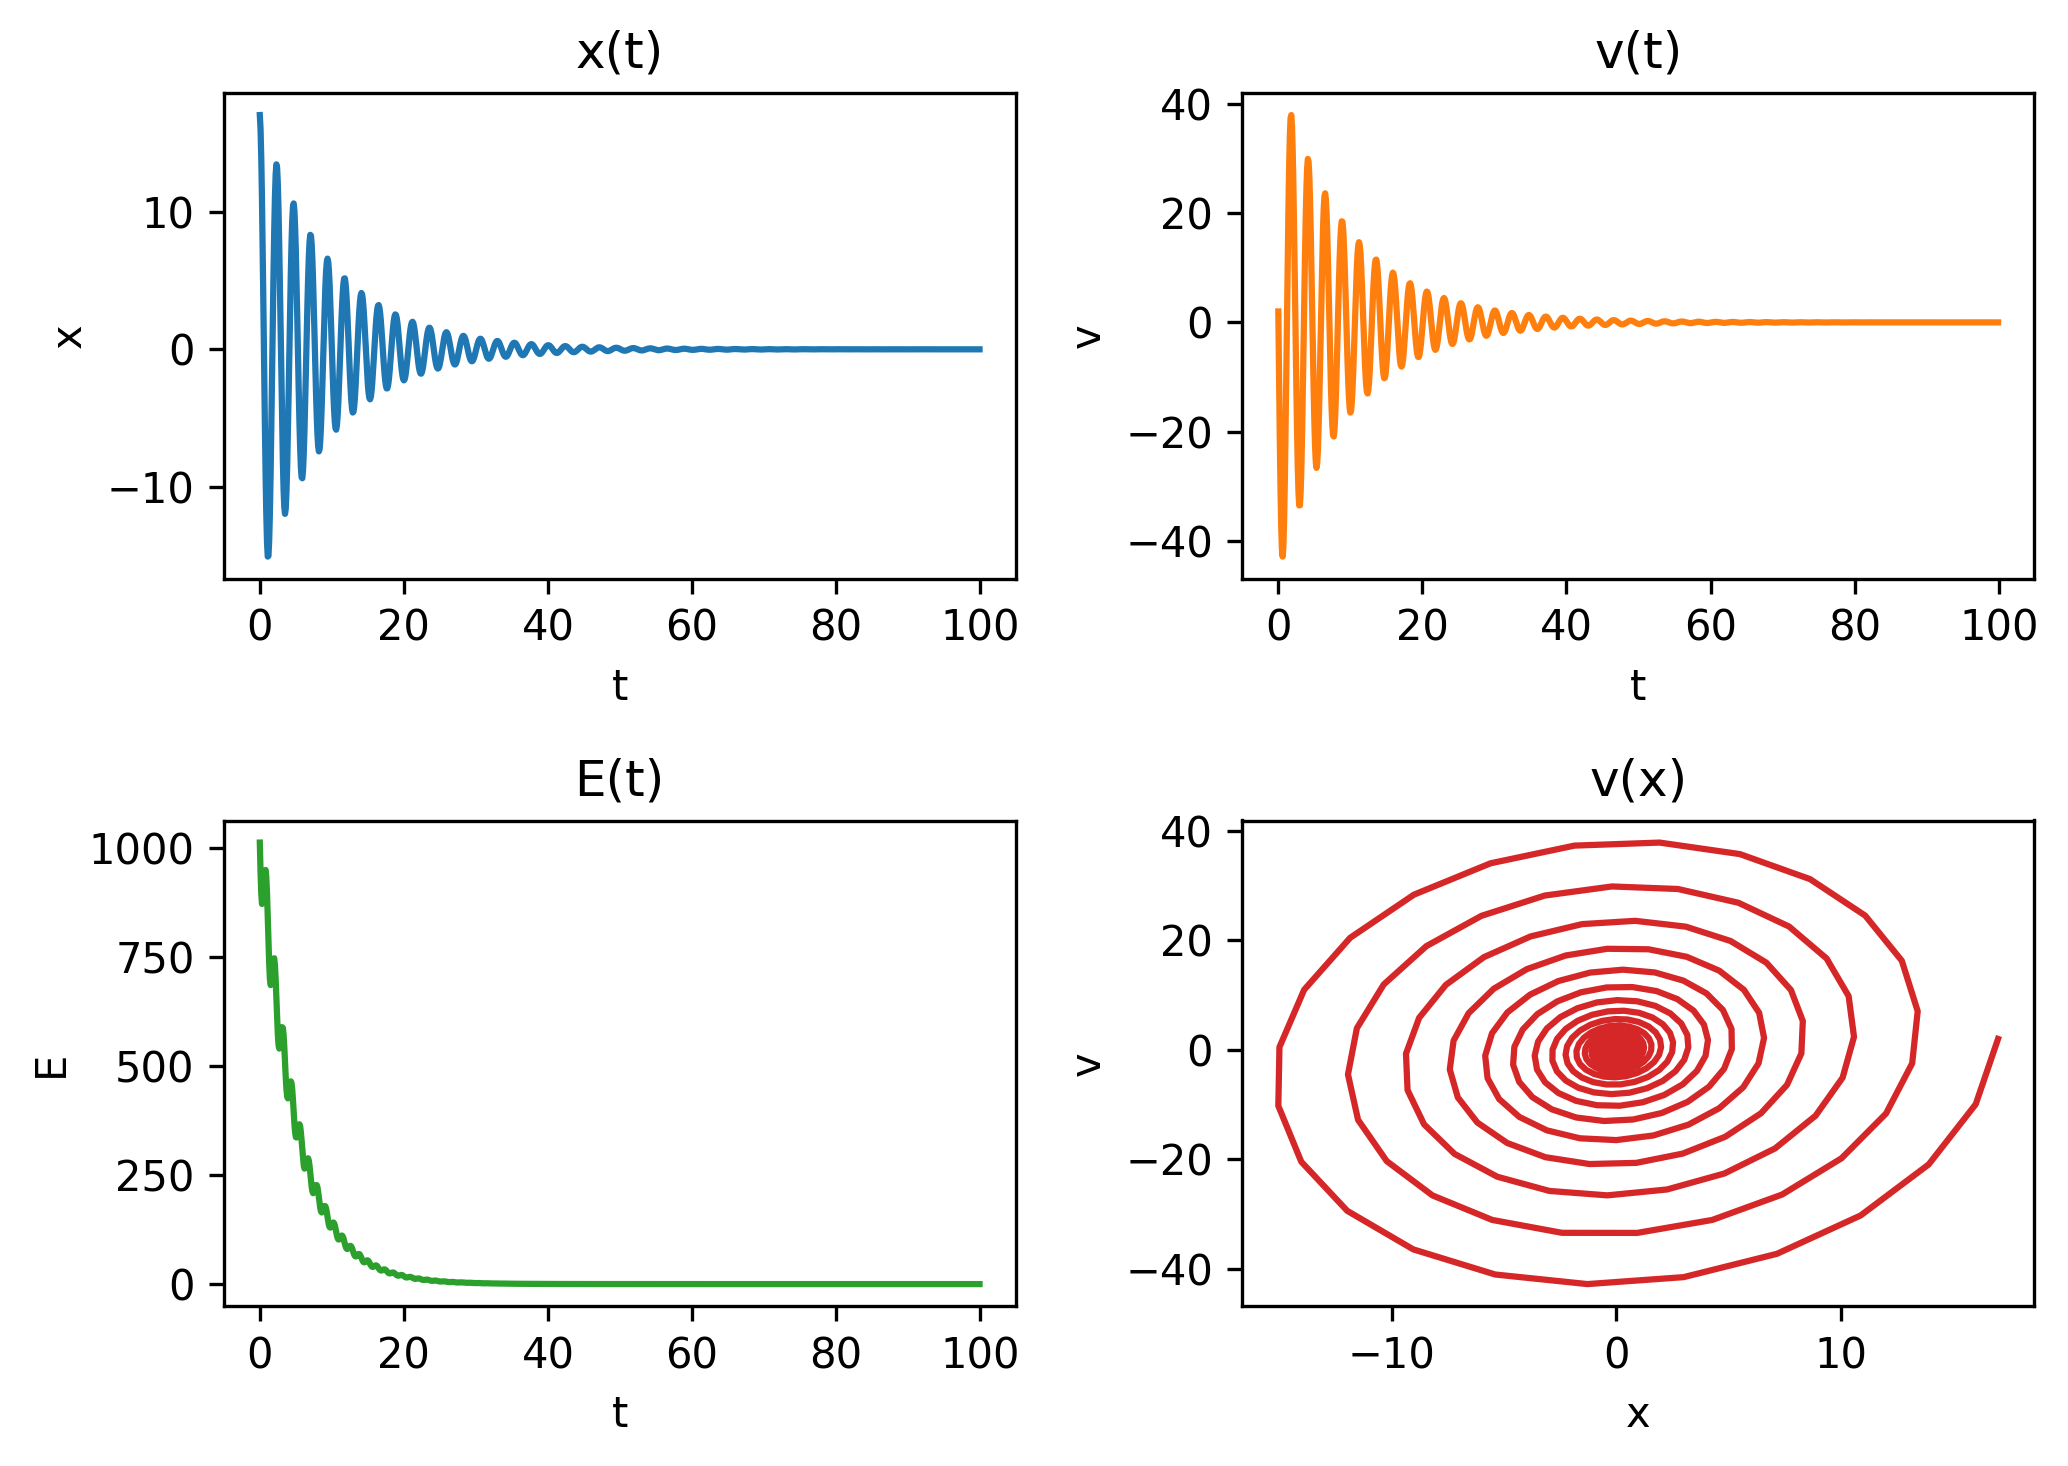
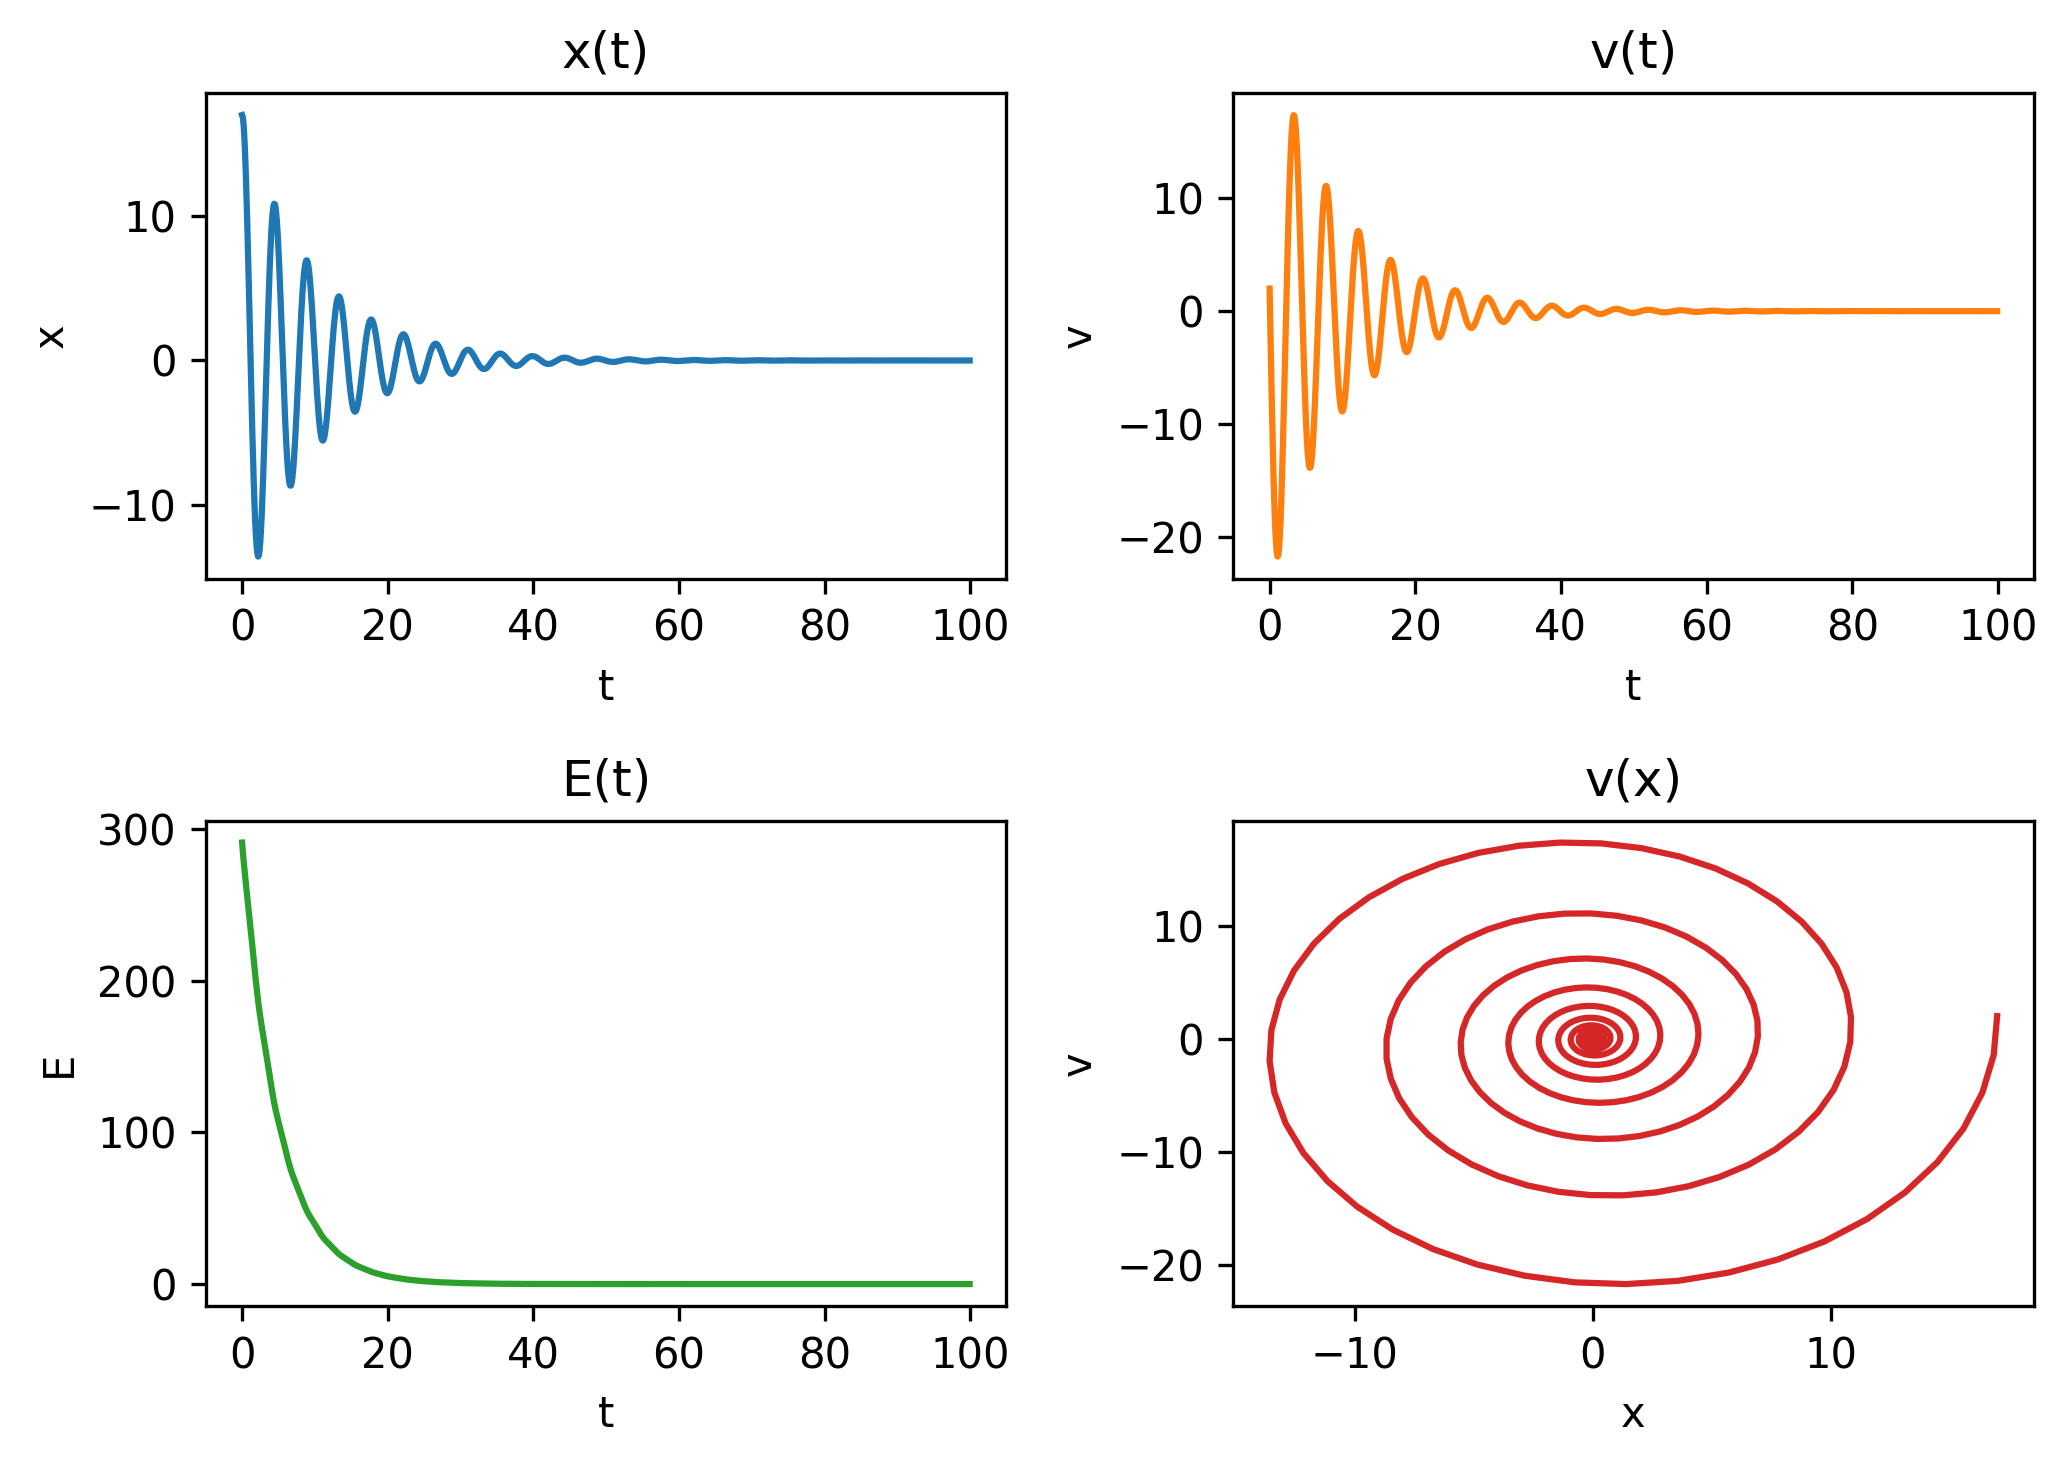
working SIR: - 2 methods - no visualization yet
oscillator:
- saving to .json

diff --git a/lab_001/src/base.py b/lab_001/src/base.py
@@ -1,5 +1,5 @@
 from abc import ABC, abstractmethod
-from dataclasses import dataclass, field, fields
+from dataclasses import dataclass, field, fields, asdict
 from pathlib import Path
 
 @dataclass
@@ -11,30 +11,37 @@ class SimulationConfig():
     stats_file_name: str
 
 @dataclass
-class SimulationState(ABC):
+class SimulationState():
     step: int = 0
     t: float = 0
-    
-    @abstractmethod
-    def state_to_txt(self) -> str:
-        pass
 
 @dataclass
-class StepStatistics(ABC):
-    @abstractmethod
-    def stats_to_txt(self) -> str:
-        pass
+class StepStatistics():
+    pass
 
 @dataclass
 class FinalStatistics():
     pass
 
 @dataclass
-class SimulationResult():
+class SimulationResult(ABC):
     config: SimulationConfig
     final_statistics: FinalStatistics | None = None
     steps: list[SimulationState] = field(default_factory=list)
     statistics: list[StepStatistics] = field(default_factory=list)
+
+    def setup_paths(self):
+        main_dir = Path(__file__).parent.parent
+        data_dir = main_dir/'data'
+        plots_dir = main_dir/'plots'
+        data_dir.mkdir(parents=True, exist_ok=True)
+        plots_dir.mkdir(parents=True, exist_ok=True)
+        self.state_file_path = data_dir/self.config.state_file_name
+        self.stats_file_path = data_dir/self.config.stats_file_name
+
+    @abstractmethod
+    def write_results(self, config: SimulationConfig):
+        pass
 
 class StepRule(ABC):
     @abstractmethod
@@ -57,7 +64,7 @@ class Visualizer(ABC):
         pass
 
 class Simulation:
-    def __init__(self, config: SimulationConfig, state: SimulationState, step_rule: StepRule,
+    def __init__(self, config: SimulationConfig, state: SimulationState, step_rule: StepRule, results: SimulationResult,
                  step_analyzer: StepAnalyzer, final_analyzer: FinalAnalyzer, visualizer: Visualizer):
         
         # initial state
@@ -72,10 +79,10 @@ class Simulation:
 
         # create containers
         self.step_stats = self.step_analyzer.analyze_step(self.config, self.state)
-        self.results = SimulationResult(config=self.config)
+        self.results = results
 
     def run(self):
-        main_dir = Path(__file__).parent
+        main_dir = Path(__file__).parent.parent
         data_dir = main_dir/'data'
         plots_dir = main_dir/'plots'
         data_dir.mkdir(parents=True, exist_ok=True)
@@ -83,31 +90,28 @@ class Simulation:
         state_file_path = data_dir/self.config.state_file_name
         stats_file_path = data_dir/self.config.stats_file_name
 
-        with open(state_file_path, 'w') as states_file, open(stats_file_path, 'w') as stats_file:
-            # writing headers using fields func from dataclasses
-            states_file.write(",".join([field.name for field in fields(self.state)])+'\n')
-            stats_file.write(",".join([field.name for field in fields(self.step_stats)])+'\n')
+        # write first state
+        self.results.steps.append(self.state)
+        self.results.statistics.append(self.step_analyzer.analyze_step(self.config,self.state))
+        
+        for _ in range(1, self.config.total_steps):
+            next_state = self.step_rule.calculate_step(self.config, self.state)
+            self.results.steps.append(next_state)
+            self.state = next_state
+            self.step_stats = self.step_analyzer.analyze_step(self.config,self.state)
+            self.results.statistics.append(self.step_stats)
 
 
-            # write first state
-            self.results.steps.append(self.state)
-            states_file.write(self.state.state_to_txt())
-            self.results.statistics.append(self.step_analyzer.analyze_step(self.config,self.state))
-            stats_file.write(self.step_stats.stats_to_txt())
-            
-            for _ in range(1, self.config.total_steps):
-                next_state = self.step_rule.calculate_step(self.config, self.state)
-                self.results.steps.append(next_state)
-                self.state = next_state
-                states_file.write(self.state.state_to_txt())
-                self.step_stats = self.step_analyzer.analyze_step(self.config,self.state)
-                stats_file.write(self.step_stats.stats_to_txt())
-                self.results.statistics.append(self.step_stats)
+        print('Writing results...')
+        self.results.write_results(self.config)
+        print('Writing final statistics...')
+        self.final_stats = self.final_analyzer.analyze_final(self.results)
+        self.results.final_statistics = self.final_stats
+        print(asdict(self.final_stats))
 
-            self.final_stats = self.final_analyzer.analyze_final(self.results)
-            self.results.final_statistics = self.final_stats
-
-            if self.config.visualize: self.visalizer.visualize(self.config, self.results, plots_dir)
+        if self.config.visualize: 
+            self.visalizer.visualize(self.config, self.results, plots_dir)
+            print('Saving visualizations...')
         
 __all__ = [
     "SimulationConfig", 

diff --git a/lab_001/src/oscillator.py b/lab_001/src/oscillator.py
@@ -1,22 +1,23 @@
 from base import *
-from dataclasses import dataclass
+from dataclasses import dataclass, asdict
 import numpy as np
 import matplotlib.pyplot as plt
+import json
 
 @dataclass
 class OscillatorConfig(SimulationConfig):
     total_steps: int = 1000
     dt: float = 0.1
     visualize: bool = True
-    state_file_name: str = 'oscillator_states.csv'
-    stats_file_name: str = 'oscillator_stats.csv'
+    state_file_name: str = 'oscillator_states.json'
+    stats_file_name: str = 'oscillator_stats.json'
     plot_name: str = 'oscillator_plots1.png'
     # method=0 Euler
     # method=1 Verlet
     method: int = 1
 
     # constants
-    k: float = 7
+    k: float = 2
     m: float = 1
     c: float = 0.2
 
@@ -24,17 +25,12 @@ class OscillatorConfig(SimulationConfig):
     x0: float = 17
     v0: float = 2
 
-    
-
 @dataclass
 class OscillatorState(SimulationState):
     step: int = 0
     t: float = 0
     x: float = 0
     v: float = 0 
-
-    def state_to_txt(self):
-        return f'{self.step},{self.t},{self.x},{self.v}\n'
     
 @dataclass
 class OscillatorStateVerlet(SimulationState):
@@ -43,9 +39,6 @@ class OscillatorStateVerlet(SimulationState):
     x: float = 0
     v: float = 0 
     a: float = 0
-
-    def state_to_txt(self):
-        return f'{self.step},{self.t},{self.x},{self.v},{self.a}\n'
     
 @dataclass
 class OscillatorStepStatistics(StepStatistics):
@@ -53,14 +46,24 @@ class OscillatorStepStatistics(StepStatistics):
     E_potential: float
     E_total: float
 
-    def stats_to_txt(self):
-        return f'{self.E_kinetic},{self.E_potential},{self.E_total}\n'
-
 @dataclass
 class OscillatorFinalStatistics(FinalStatistics):
     x_max: float
     E_end: float
     E_mean: float
+
+@dataclass
+class OscillatorResult(SimulationResult):
+    def write_results(self, config: OscillatorConfig):
+        state_data = [asdict(state) for state in self.steps]
+        stats_data = [asdict(stats) for stats in self.statistics]
+
+        SimulationResult.setup_paths(self=self)
+
+        with open(self.state_file_path, 'w') as state_file:
+            json.dump(state_data, state_file, indent=4)
+        with open(self.stats_file_path, 'w') as stats_file:
+            json.dump(stats_data, stats_file, indent=4)
 
 class OscillatorStepRuleEuler(StepRule):
     def calculate_step(self, config: OscillatorConfig, state: OscillatorState) -> OscillatorState:
@@ -143,11 +146,11 @@ def main():
     sim = Simulation(config=config,                    
                     state=state,
                     step_rule=method,
+                    results=OscillatorResult(config=config),
                     step_analyzer=OscillatorStepAnalyzer(),
                     final_analyzer=OscillatorFinalAnalyzer(),
                     visualizer=OscillatorVisualizer())
     sim.run()
-    print(sim.results.final_statistics)
     print('Simmulation completed')
 if __name__=='__main__':
     main()
